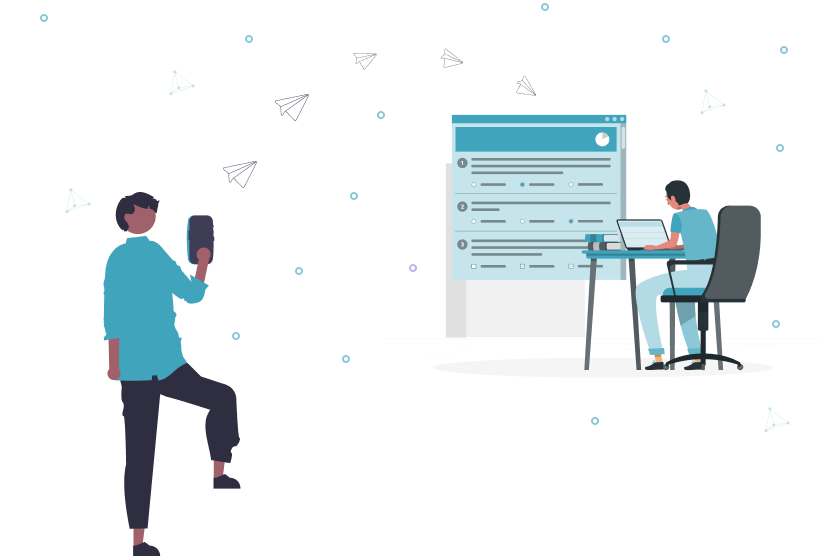
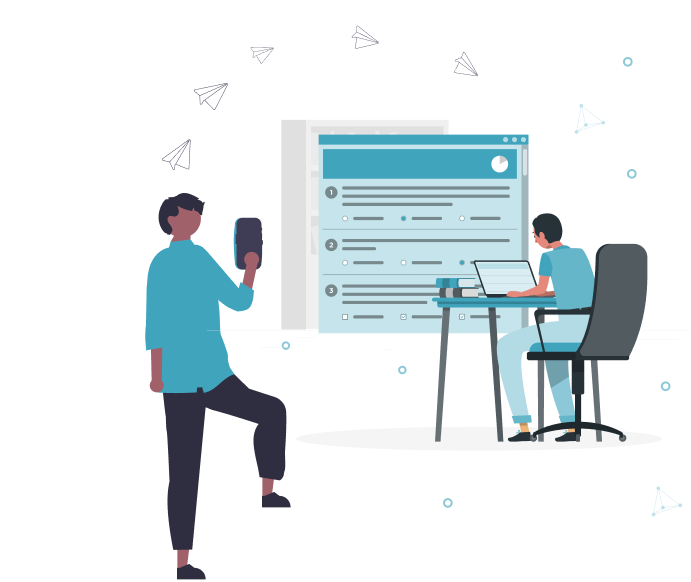
change images from

diff --git a/components/Header.vue b/components/Header.vue
@@ -119,7 +119,7 @@
         </div>
         <a
           @click="hideModal"
-          href="https://www.bildir.uz/uz/sign-up/"
+          href="http://localhost:8000//uz/sign-up/"
           class="px-[36px] py-[8px] text-white bg-[#40A4BD] hover:bg-[#50bbd6] text-[20px] text-center rounded-[8px]"
         >
           <!-- {{ $t("contactUs") }} -->
@@ -154,7 +154,7 @@
           >
             {{ $t("Blog") }} </NuxtLink
           ><a
-            href="https://www.bildir.uz/uz/login/"
+            href="http://localhost:8000//uz/login/"
             class="text-[18px] duration-300 hover:border-[#40A4BD] border-b-2 border-[#fff] text-[#40A4BD] font-medium"
           >
             {{ $t("Adminstration") }}
@@ -194,7 +194,7 @@
         </div>
 
         <a
-          href="https://www.bildir.uz/uz/sign-up/"
+          href="http://localhost:8000//uz/sign-up/"
           class="px-[36px] lg:block hidden py-[8px] text-white bg-[#40A4BD] hover:bg-[#50bbd6] rounded-[8px]"
         >
           <!-- {{ $t("contactUs") }} -->

diff --git a/components/Home.vue b/components/Home.vue
@@ -1,11 +1,12 @@
 <template>
   <div
-    class="relative overflow-hidden lg:bg-[url('~/assets/images/Group39547.png')] bg-right pt-[150px] lg:pt-[100px] h-screen"
+    class="relative overflow-hidden z-10 bg-right pt-[150px] lg:pt-[100px] h-screen"
   >
+    <img class="absolute w-full hidden lg:block" src="~/assets/images/Group39547.png" />
     <div id="introduction" class="absolute -top-[100px]"></div>
-    <div class="container overflow-hidden">
+    <div class="container relative z-20 overflow-hidden">
       <h1
-        class="lg:text-[48px] text-[24px] text-center lg:text-start lg:mt-[48px] lg:w-[100%] leading-[134%] font-bold"
+        class="lg:text-[48px] text-[24px] lg:text-start lg:mt-[48px] lg:w-[100%] leading-[134%] font-bold"
       >
         <span class="text-[#40A4BD]">Whistleblowing</span>
         {{ $t("homeTitle2") }}

diff --git a/components/FAQ.vue b/components/FAQ.vue
@@ -1,5 +1,6 @@
 <template>
   <div class="relative lg:py-[100px]">
+    <div id="Report-Submission" class="absolute -top-[0px]"></div>
     <div id="FAQ" class="absolute -top-[10%]"></div>
 
     <div class="container">

diff --git a/pages/index.vue b/pages/index.vue
@@ -1,7 +1,7 @@
 <template>
   <div class="">
-    <Header></Header>
-    <Home />
+    <Header class="fixed z-[30]"></Header>
+    <Home class="relative z-[29]"/>
     <About />
     <How></How>
     <Benifits />
